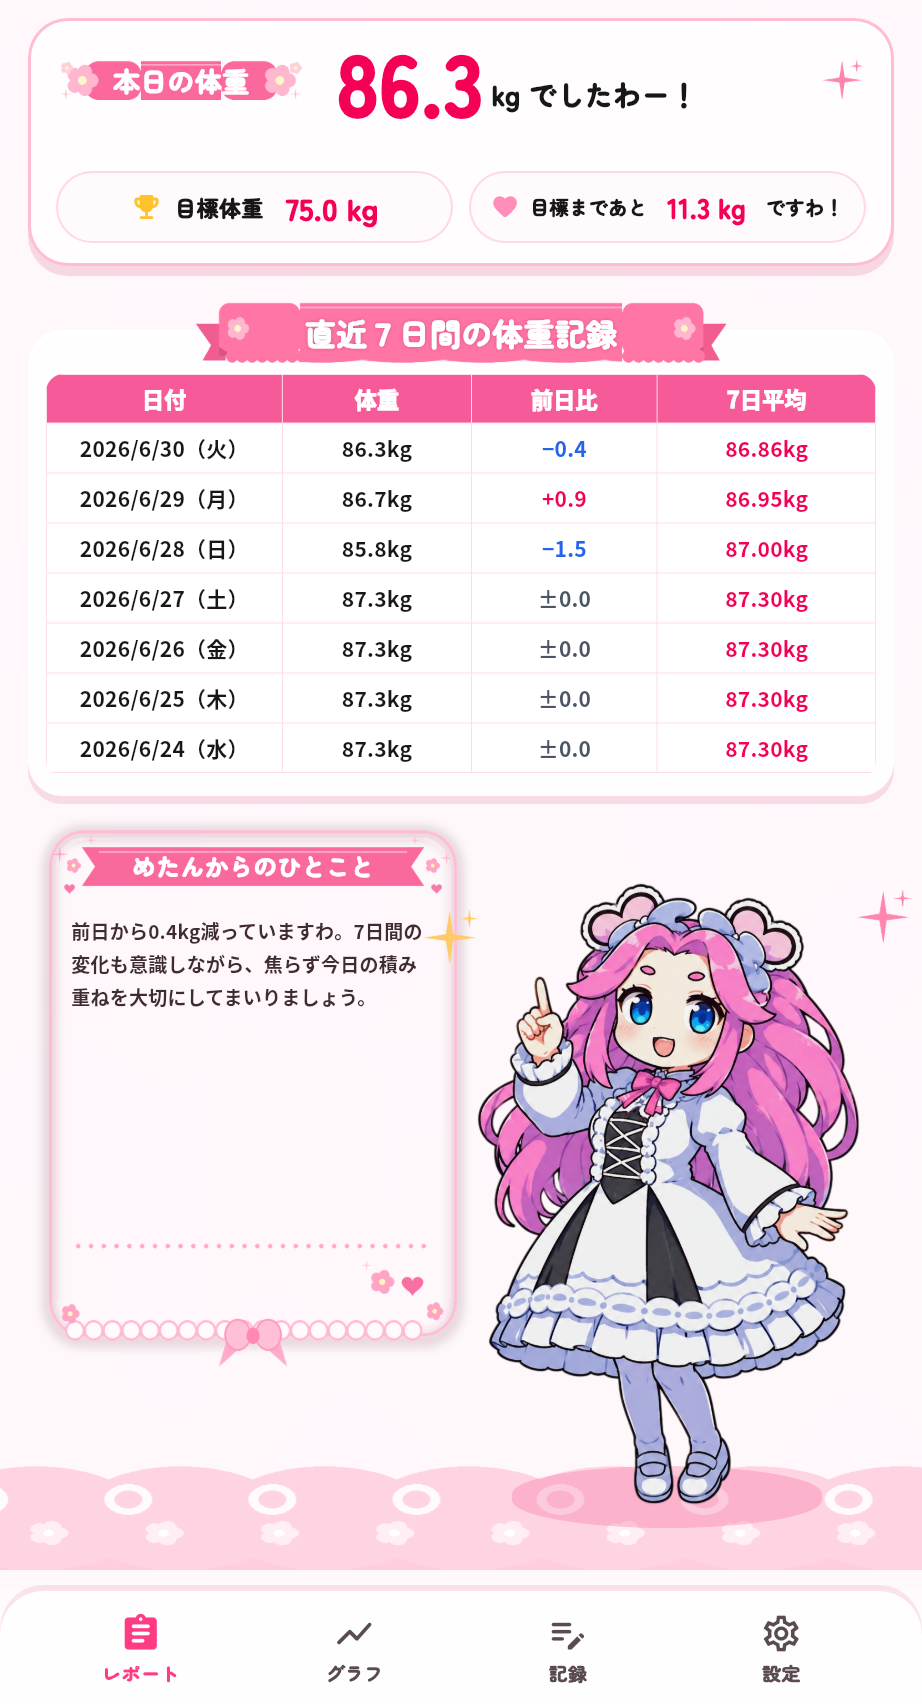
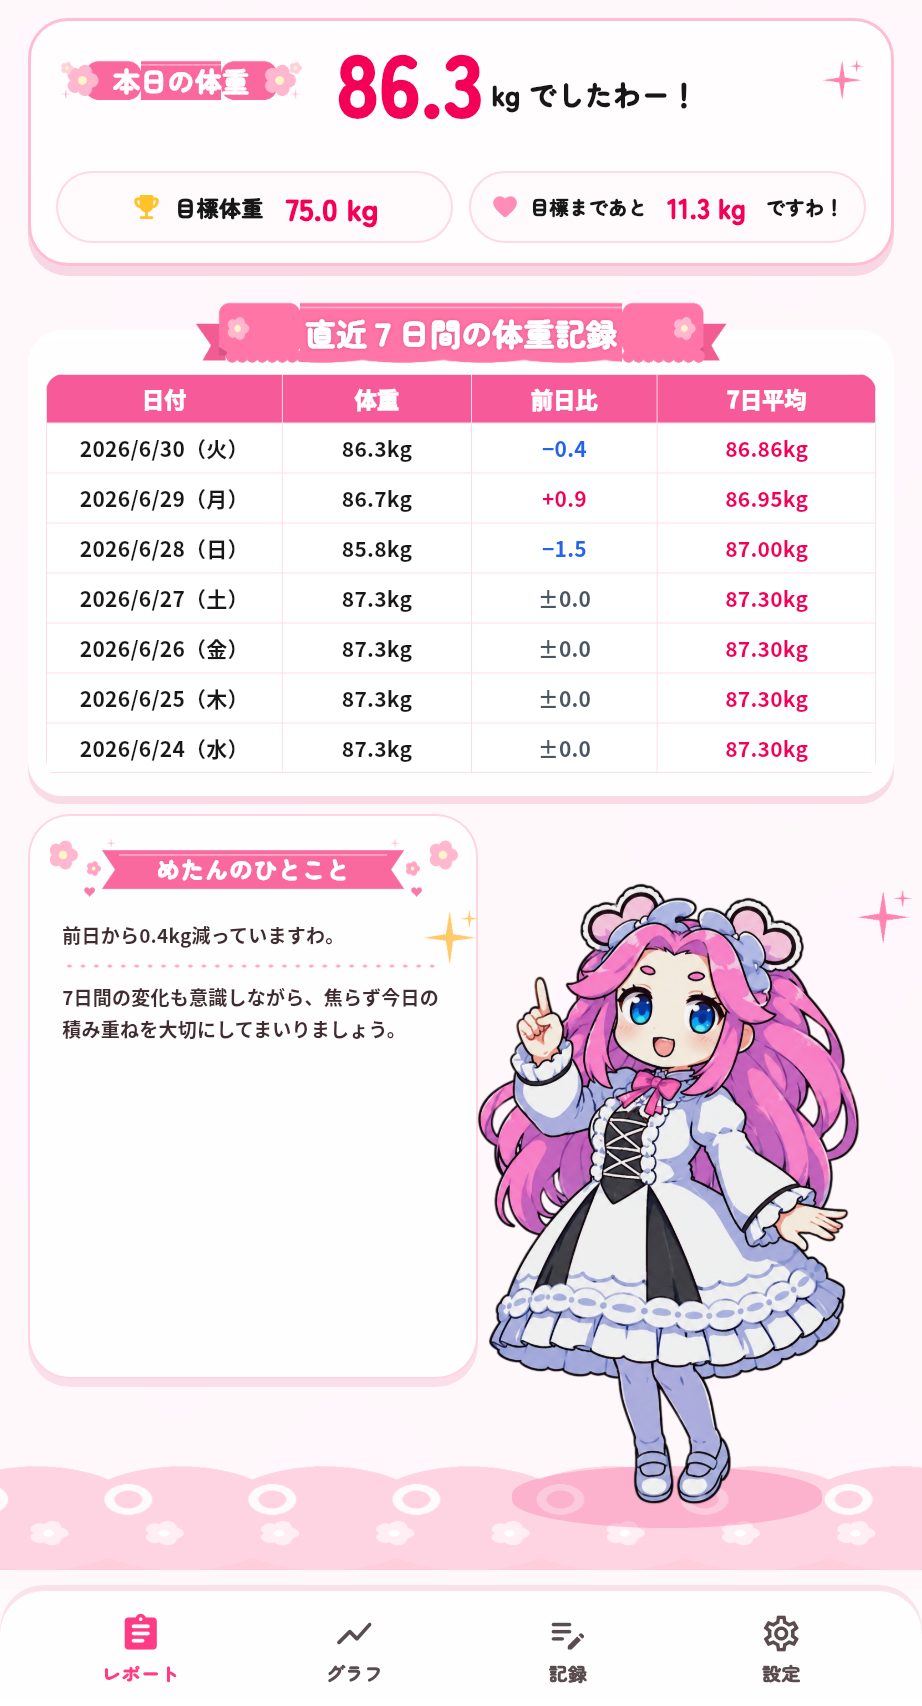
Simplify report comment panel

Changed region(s): [[0.0304, 0.466, 0.5163, 0.8388]]

diff --git a/lib/screens/report_screen.dart b/lib/screens/report_screen.dart
@@ -658,61 +658,119 @@ class _MetanCommentPanel extends StatelessWidget {
 
   @override
   Widget build(BuildContext context) {
+    final paragraphs = _commentParagraphs(comment);
     return Stack(
       clipBehavior: Clip.none,
       children: [
         Positioned.fill(
+          child: Container(
+            decoration: BoxDecoration(
+              color: Colors.white.withValues(alpha: 0.97),
+              borderRadius: BorderRadius.circular(42),
+              border: Border.all(color: const Color(0xFFFFD5E3), width: 2),
+              boxShadow: const [
+                BoxShadow(
+                  color: Color(0x24D94A80),
+                  blurRadius: 18,
+                  offset: Offset(0, 8),
+                ),
+              ],
+            ),
+          ),
+        ),
+        Positioned(left: 52, right: 52, top: 16, child: _CommentHeading()),
+        Positioned(
+          left: 18,
+          top: 24,
           child: Image.asset(
-            'assets/images/report/report_comment_panel_frame.png',
-            fit: BoxFit.fill,
+            'assets/images/report/report_flower.png',
+            width: 34,
+            height: 34,
             excludeFromSemantics: true,
           ),
         ),
-        Positioned(left: 32, right: 32, top: 13, child: _CommentHeading()),
         Positioned(
-          left: 43,
-          right: 43,
-          top: 100,
-          bottom: 72,
-          child: Column(
-            crossAxisAlignment: CrossAxisAlignment.start,
-            children: [
-              Expanded(
-                child: Text(
-                  comment,
-                  overflow: TextOverflow.fade,
-                  style: const TextStyle(
-                    color: Color(0xFF3F2C31),
-                    fontFamily: appFontFamily,
-                    fontSize: 19,
-                    height: 1.75,
-                    fontWeight: FontWeight.w600,
+          right: 18,
+          top: 24,
+          child: Image.asset(
+            'assets/images/report/report_flower.png',
+            width: 34,
+            height: 34,
+            excludeFromSemantics: true,
+          ),
+        ),
+        Positioned(
+          left: 34,
+          right: 34,
+          top: 105,
+          bottom: 30,
+          child: LayoutBuilder(
+            builder: (context, constraints) {
+              return Align(
+                alignment: Alignment.topLeft,
+                child: FittedBox(
+                  fit: BoxFit.scaleDown,
+                  alignment: Alignment.topLeft,
+                  child: SizedBox(
+                    width: constraints.maxWidth,
+                    child: Column(
+                      mainAxisSize: MainAxisSize.min,
+                      crossAxisAlignment: CrossAxisAlignment.start,
+                      children: [
+                        for (
+                          var index = 0;
+                          index < paragraphs.length;
+                          index++
+                        ) ...[
+                          Text(
+                            paragraphs[index],
+                            style: const TextStyle(
+                              color: Color(0xFF3F2C31),
+                              fontFamily: appFontFamily,
+                              fontSize: 19,
+                              height: 1.7,
+                              fontWeight: FontWeight.w600,
+                            ),
+                          ),
+                          if (index != paragraphs.length - 1) ...[
+                            const SizedBox(height: 9),
+                            Image.asset(
+                              'assets/images/report/report_comment_divider.png',
+                              width: constraints.maxWidth,
+                              height: 12,
+                              fit: BoxFit.fill,
+                              excludeFromSemantics: true,
+                            ),
+                            const SizedBox(height: 9),
+                          ],
+                        ],
+                      ],
+                    ),
                   ),
                 ),
-              ),
-              Image.asset(
-                'assets/images/report/report_comment_divider.png',
-                width: double.infinity,
-                height: 18,
-                fit: BoxFit.fill,
-                excludeFromSemantics: true,
-              ),
-              Align(
-                alignment: Alignment.centerRight,
-                child: Image.asset(
-                  'assets/images/report/report_comment_ornament.png',
-                  width: 78,
-                  height: 52,
-                  fit: BoxFit.contain,
-                  excludeFromSemantics: true,
-                ),
-              ),
-            ],
+              );
+            },
           ),
         ),
       ],
     );
   }
+}
+
+List<String> _commentParagraphs(String comment) {
+  final paragraphs = <String>[];
+  final buffer = StringBuffer();
+  for (final character in comment.trim().characters) {
+    buffer.write(character);
+    if ('。！？'.contains(character) && paragraphs.length < 3) {
+      final sentence = buffer.toString().trim();
+      if (sentence.isNotEmpty) paragraphs.add(sentence);
+      buffer.clear();
+    }
+  }
+  final remainder = buffer.toString().trim();
+  if (remainder.isNotEmpty) paragraphs.add(remainder);
+  return paragraphs.isEmpty ? [comment] : paragraphs;
 }
 
 class _CommentHeading extends StatelessWidget {
@@ -754,7 +812,7 @@ class _CommentHeading extends StatelessWidget {
             child: FittedBox(
               fit: BoxFit.scaleDown,
               child: Text(
-                'めたんからのひとこと',
+                'めたんのひとこと',
                 style: TextStyle(
                   color: Colors.white,
                   fontFamily: reportAccentFontFamily,

diff --git a/test/home_screen_golden_test.dart b/test/home_screen_golden_test.dart
@@ -468,7 +468,7 @@ void main() {
     expect(find.text('日付'), findsOneWidget);
     expect(find.textContaining('JST'), findsNothing);
     expect(find.text('🌸 今日のひとこと♪'), findsNothing);
-    expect(find.text('めたんからのひとこと'), findsOneWidget);
+    expect(find.text('めたんのひとこと'), findsOneWidget);
     expect(find.textContaining('前日から0.4kg減っていますわ'), findsOneWidget);
     expect(
       tester
